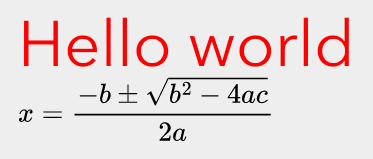
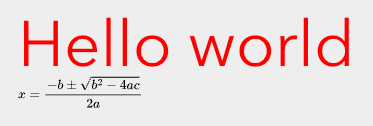
use usvgjs

diff --git a/examples/latex/main.js b/examples/latex/main.js
@@ -1,21 +1,17 @@
-import { Resvg } from "@resvg/resvg-js";
 import fs from "node:fs/promises";
 import { Column, Photo, Text, loadImage, sone } from "sonejs";
 import texsvg from "texsvg";
+import initUSvg, { optimize } from "usvgjs";
 
-const svg = await texsvg("x=\\frac{-b\\pm\\sqrt{b^2-4ac}}{2a}", {
-  optimize: true,
+const wasmBuffer = await fs.readFile("node_modules/usvgjs/usvgjs_bg.wasm");
+await initUSvg({
+  module_or_path: wasmBuffer,
 });
 
-const resvg = new Resvg(svg, {
-  fitTo: {
-    mode: "width",
-    value: 256,
-  },
-});
+let svg = await texsvg("x=\\frac{-b\\pm\\sqrt{b^2-4ac}}{2a}");
+svg = optimize(svg);
 
-const pngBuffer = resvg.render().asPng();
-const image = await loadImage(pngBuffer);
+const image = await loadImage(Buffer.from(svg));
 
 const Document = () =>
   Column(
@@ -27,3 +23,4 @@ const Document = () =>
     .gap(10);
 
 await fs.writeFile("output.png", await sone(Document).png());
+await fs.writeFile("output.pdf", await sone(Document).pdf());
